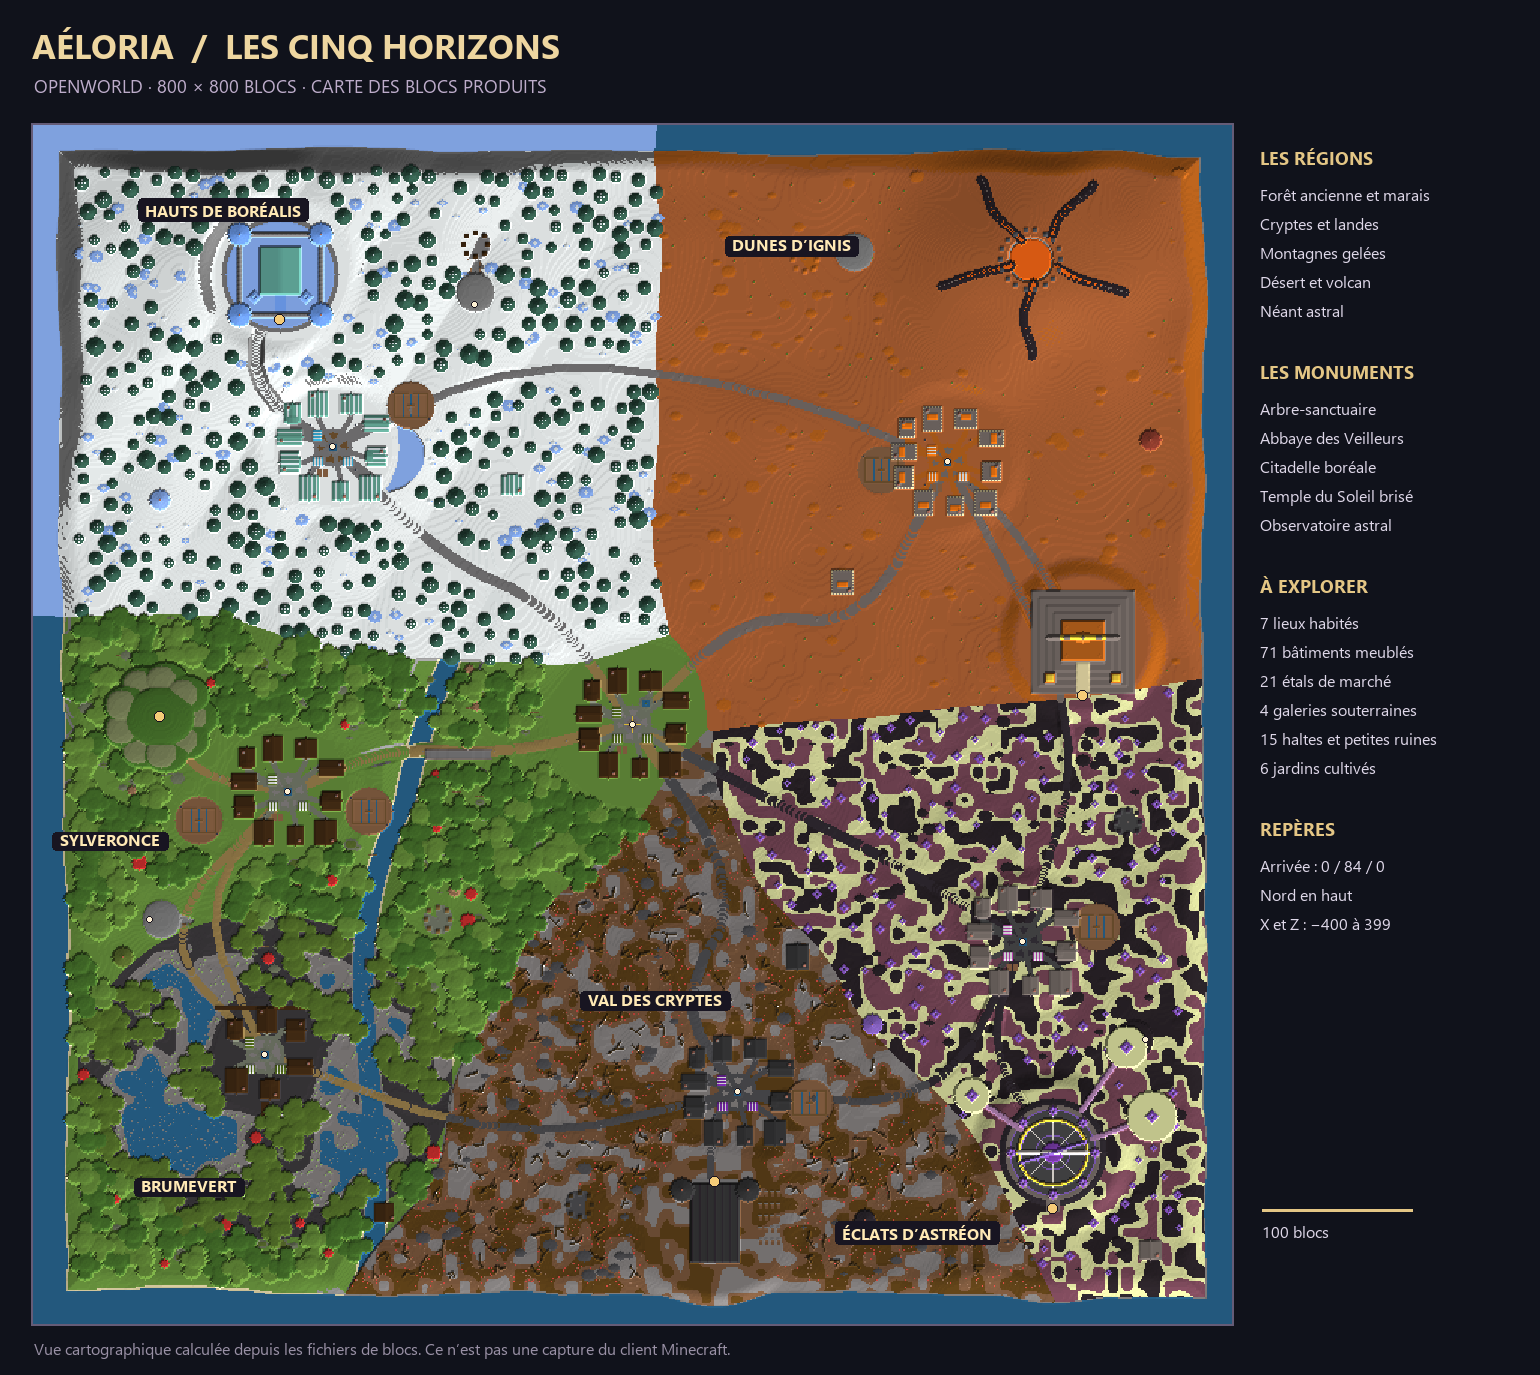
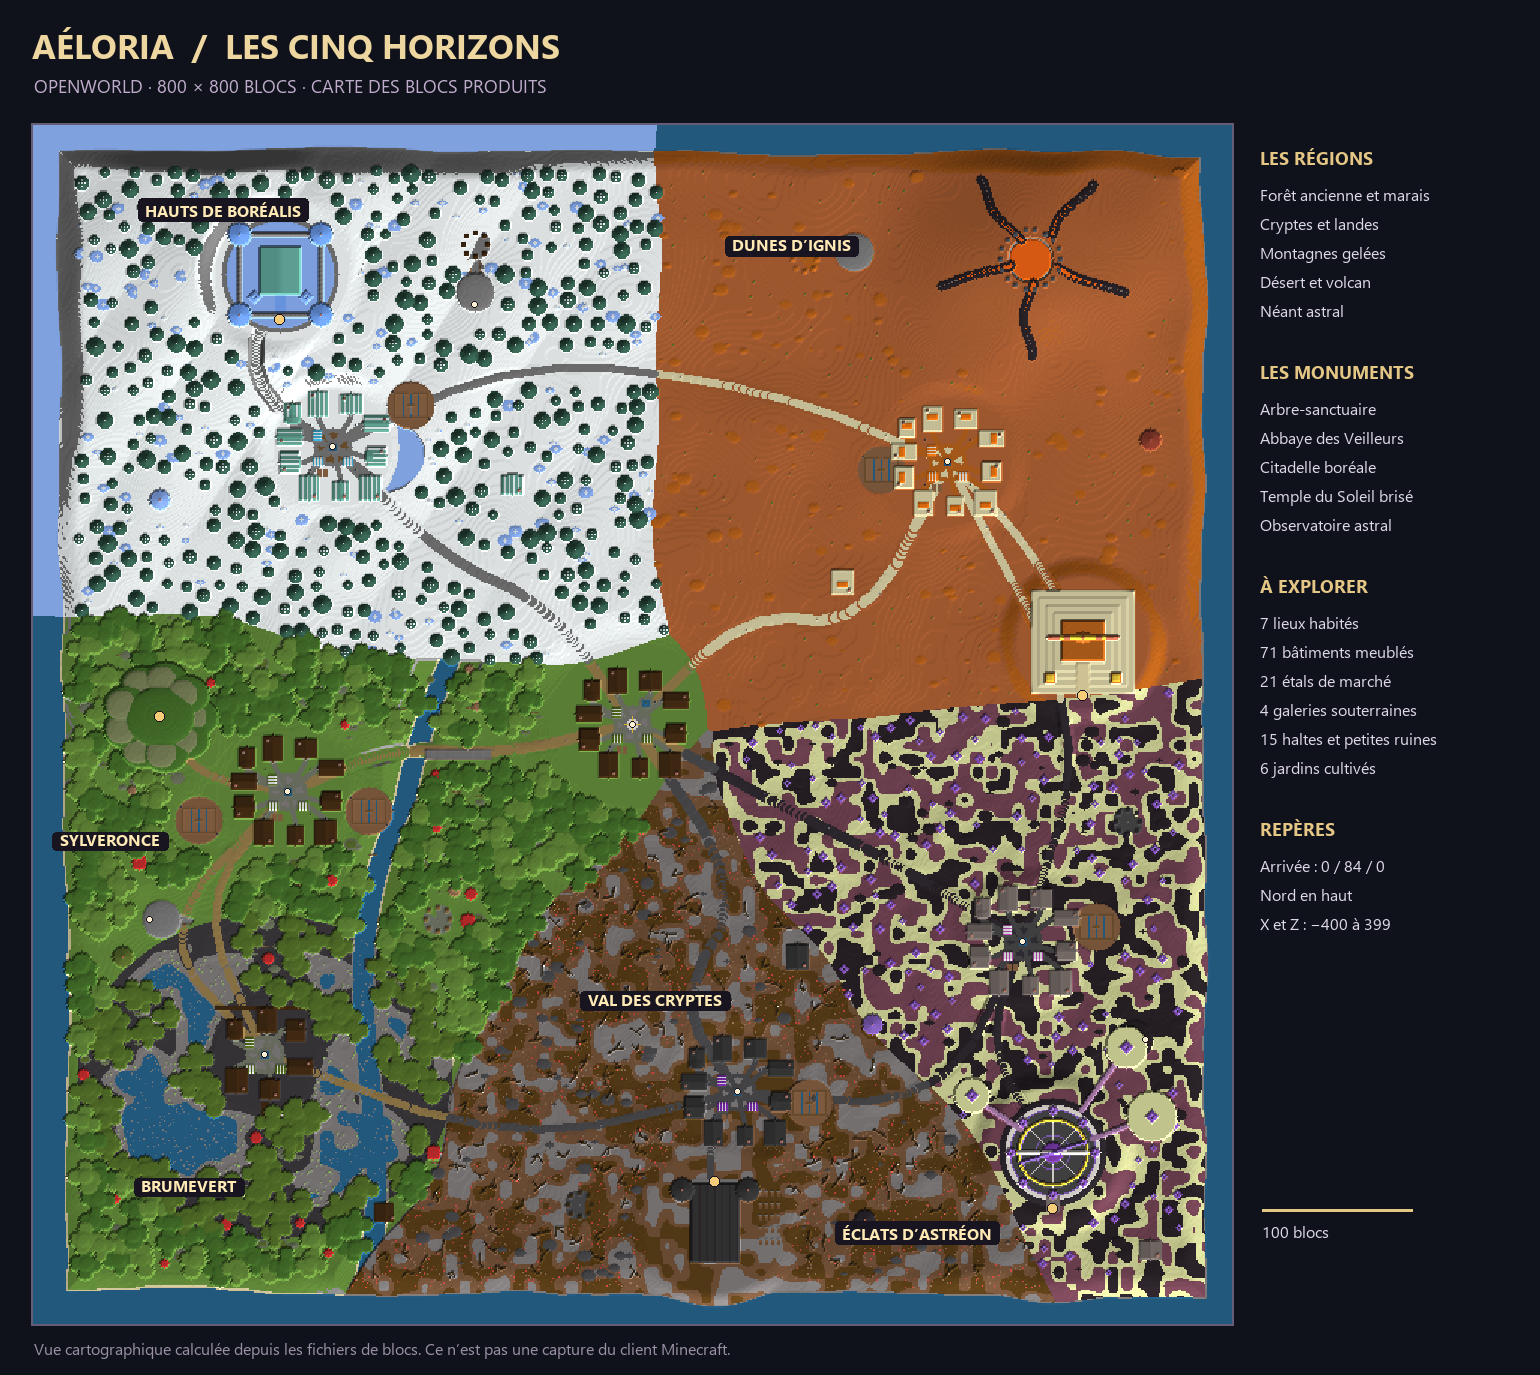
Validate the saved Openworld map and French signs on Minecraft 26.3

diff --git a/tools/openworld_map/preview.py b/tools/openworld_map/preview.py
@@ -9,7 +9,8 @@ def colors(palette,jar):
     overrides={'water':(40,101,143),'lava':(244,102,22),'grass_block':(102,143,60),'dirt_path':(153,127,76),
         'oak_leaves':(70,113,43),'birch_leaves':(100,139,57),'spruce_leaves':(48,86,71),'mangrove_leaves':(86,115,43),
         'dark_oak_leaves':(65,96,41),'flowering_azalea_leaves':(122,131,89),'red_sand':(178,99,53),'snow':(227,237,242)}
-    aliases={'chain':'iron_chain','lantern':'lantern','end_rod':'end_rod','ice':'ice','short_grass':'short_grass','snow_block':'snow'}
+    aliases={'chain':'iron_chain','lantern':'lantern','end_rod':'end_rod','ice':'ice','short_grass':'short_grass','snow_block':'snow',
+             'smooth_sandstone':'sandstone_top','smooth_quartz':'quartz_block_side','waxed_copper_block':'copper_block','waxed_cut_copper':'cut_copper'}
     for name in palette:
         name=name.split(':')[-1].split('[')[0]
         if name in overrides:out.append(overrides[name]);continue

diff --git a/src/main/java/com/mmorpg/server/DevOpenworldMapChecks.java b/src/main/java/com/mmorpg/server/DevOpenworldMapChecks.java
@@ -52,7 +52,7 @@ public final class DevOpenworldMapChecks {
                 check(world.getBlockEntity(pos) instanceof SignBlockEntity, "sign entity at " + pos);
                 var sign = (SignBlockEntity) world.getBlockEntity(pos);
                 var lines = sample.getAsJsonArray("lines");
-                for (int i = 0; i < lines.size(); i++) check(sign.getFrontText().getMessage(i, false).getString().equals(lines.get(i).getAsString()), "sign text at " + pos + " line " + i);
+                for (int i = 0; i < lines.size(); i++) check(sign.getText(net.minecraft.world.level.block.entity.SignTextSlot.FRONT).getMessages(false).get(i).getString().equals(lines.get(i).getAsString()), "sign text at " + pos + " line " + i);
                 signs++;
             }
             String result = "PASS: saved map reload, safe arrival, 800 border, " + samples + " landmarks/buildings, " + biomes + " biomes, " + signs + " French signs\n";

diff --git a/maps/openworld-800/VALIDATION.md b/maps/openworld-800/VALIDATION.md
@@ -1,0 +1,12 @@
+# Validation du 17 novembre 2026
+
+- Minecraft Java 26.3, NeoForge 26.3.0.39-beta, Java 25.
+- 100 fichiers Sponge v3, DataVersion 5023, empreintes SHA-256, dimensions et palettes contrôlées.
+- Import natif terminé : **100/100 secteurs**. Comparaison exhaustive des blocs non vides et des cellules de biome : **0 différence**.
+- Monde sauvegardé puis redémarré avec le mod intégrant les derniers changements de `main` : **PASS** pour l'arrivée libre et solide, la bordure de 800, 111 échantillons de bâtiments/monuments, 7 échantillons de biomes et les **110 panneaux en français**.
+- Construction Gradle et **64 tests unitaires** réussis, dont les réglages de la petite carte et les zones sans apparition dans les villages.
+- Vues géométriques calculées depuis les blocs inspectées avec Blender : place centrale, forêt, abbaye, citadelle, temple et observatoire. Les matériaux et les blocs fins y sont simplifiés.
+
+Le premier essai a révélé une recherche de golem déclenchée par une citrouille décorative à la limite d'un chunk. L'importeur utilise maintenant le drapeau natif `Block.UPDATE_SKIP_ON_PLACE` pour éviter les effets d'une pose interactive pendant un collage. Le secteur concerné a été recollé, puis l'intégralité de la carte comparée. La vérification isolée utilise 4 Gio et désactive le préchargement général pour éviter la concurrence avec l'import.
+
+**Limite du contrôle :** aucun client Minecraft connecté au bridge n'était disponible. La visite visuelle dans le jeu, le combat et la circulation de plusieurs joueurs restent à vérifier dans le client ; les contrôles ci-dessus ont réellement exécuté le serveur Minecraft et relu sa sauvegarde native.

diff --git a/tools/openworld_map/PLAN.md b/tools/openworld_map/PLAN.md
@@ -7,7 +7,7 @@ Le mod a six familles : Forêt ancienne, Marais, Cryptes, Terres gelées, Déser
 ## Contraintes et livraison
 
 - Coordonnées X/Z : -400 à 399, arrivée au centre 0.5 / 84 / 0.5.
-- Monde indépendant ; ne jamais écraser la map actuellement installée.
+- Construction dans un monde indépendant. Instruction du 17 novembre : installer sur Openworld puis supprimer l'ancienne carte, sans la conserver.
 - Terrain naturel sculpté, transitions organiques, itinéraires praticables, rivières, falaises, grottes et cinq silhouettes monumentales.
 - Villages avec maisons différentes, intérieurs, marchés, puits, jardins, quais et éclairage.
 - Export Sponge v3, DataVersion 5023 vérifiée dans le projet ; 100 secteurs de 80×80, CSV compatible avec l'importeur natif existant.
